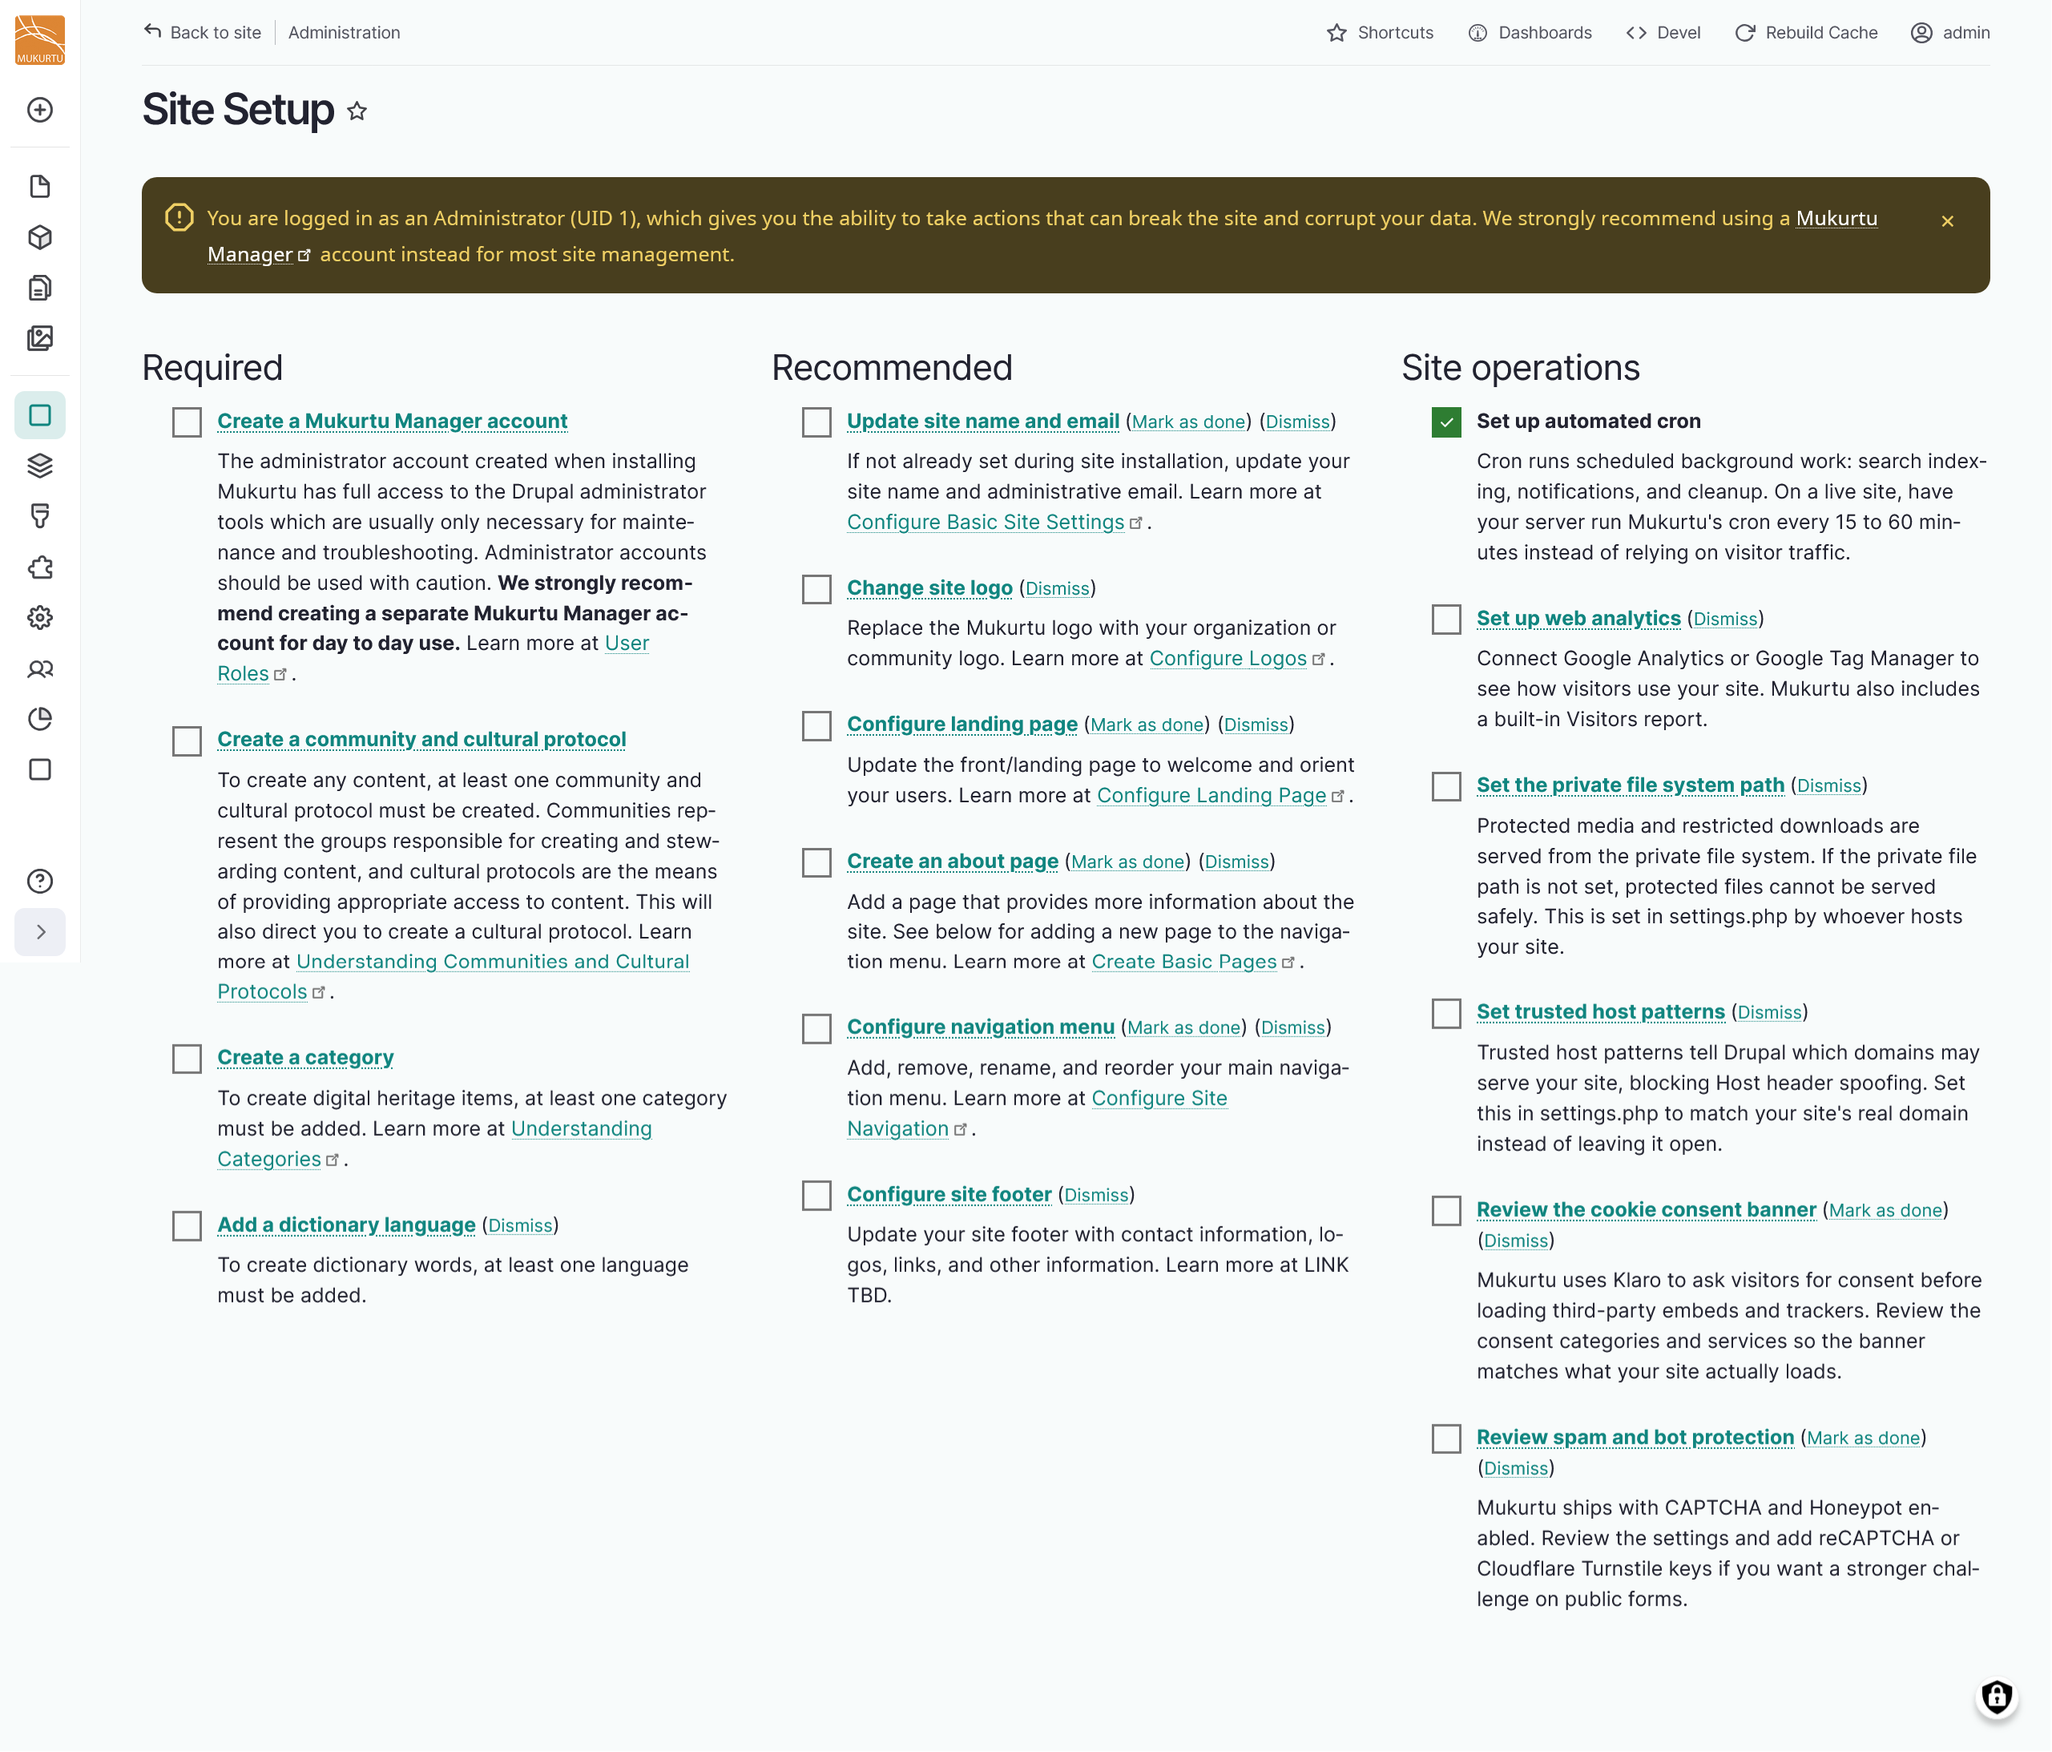
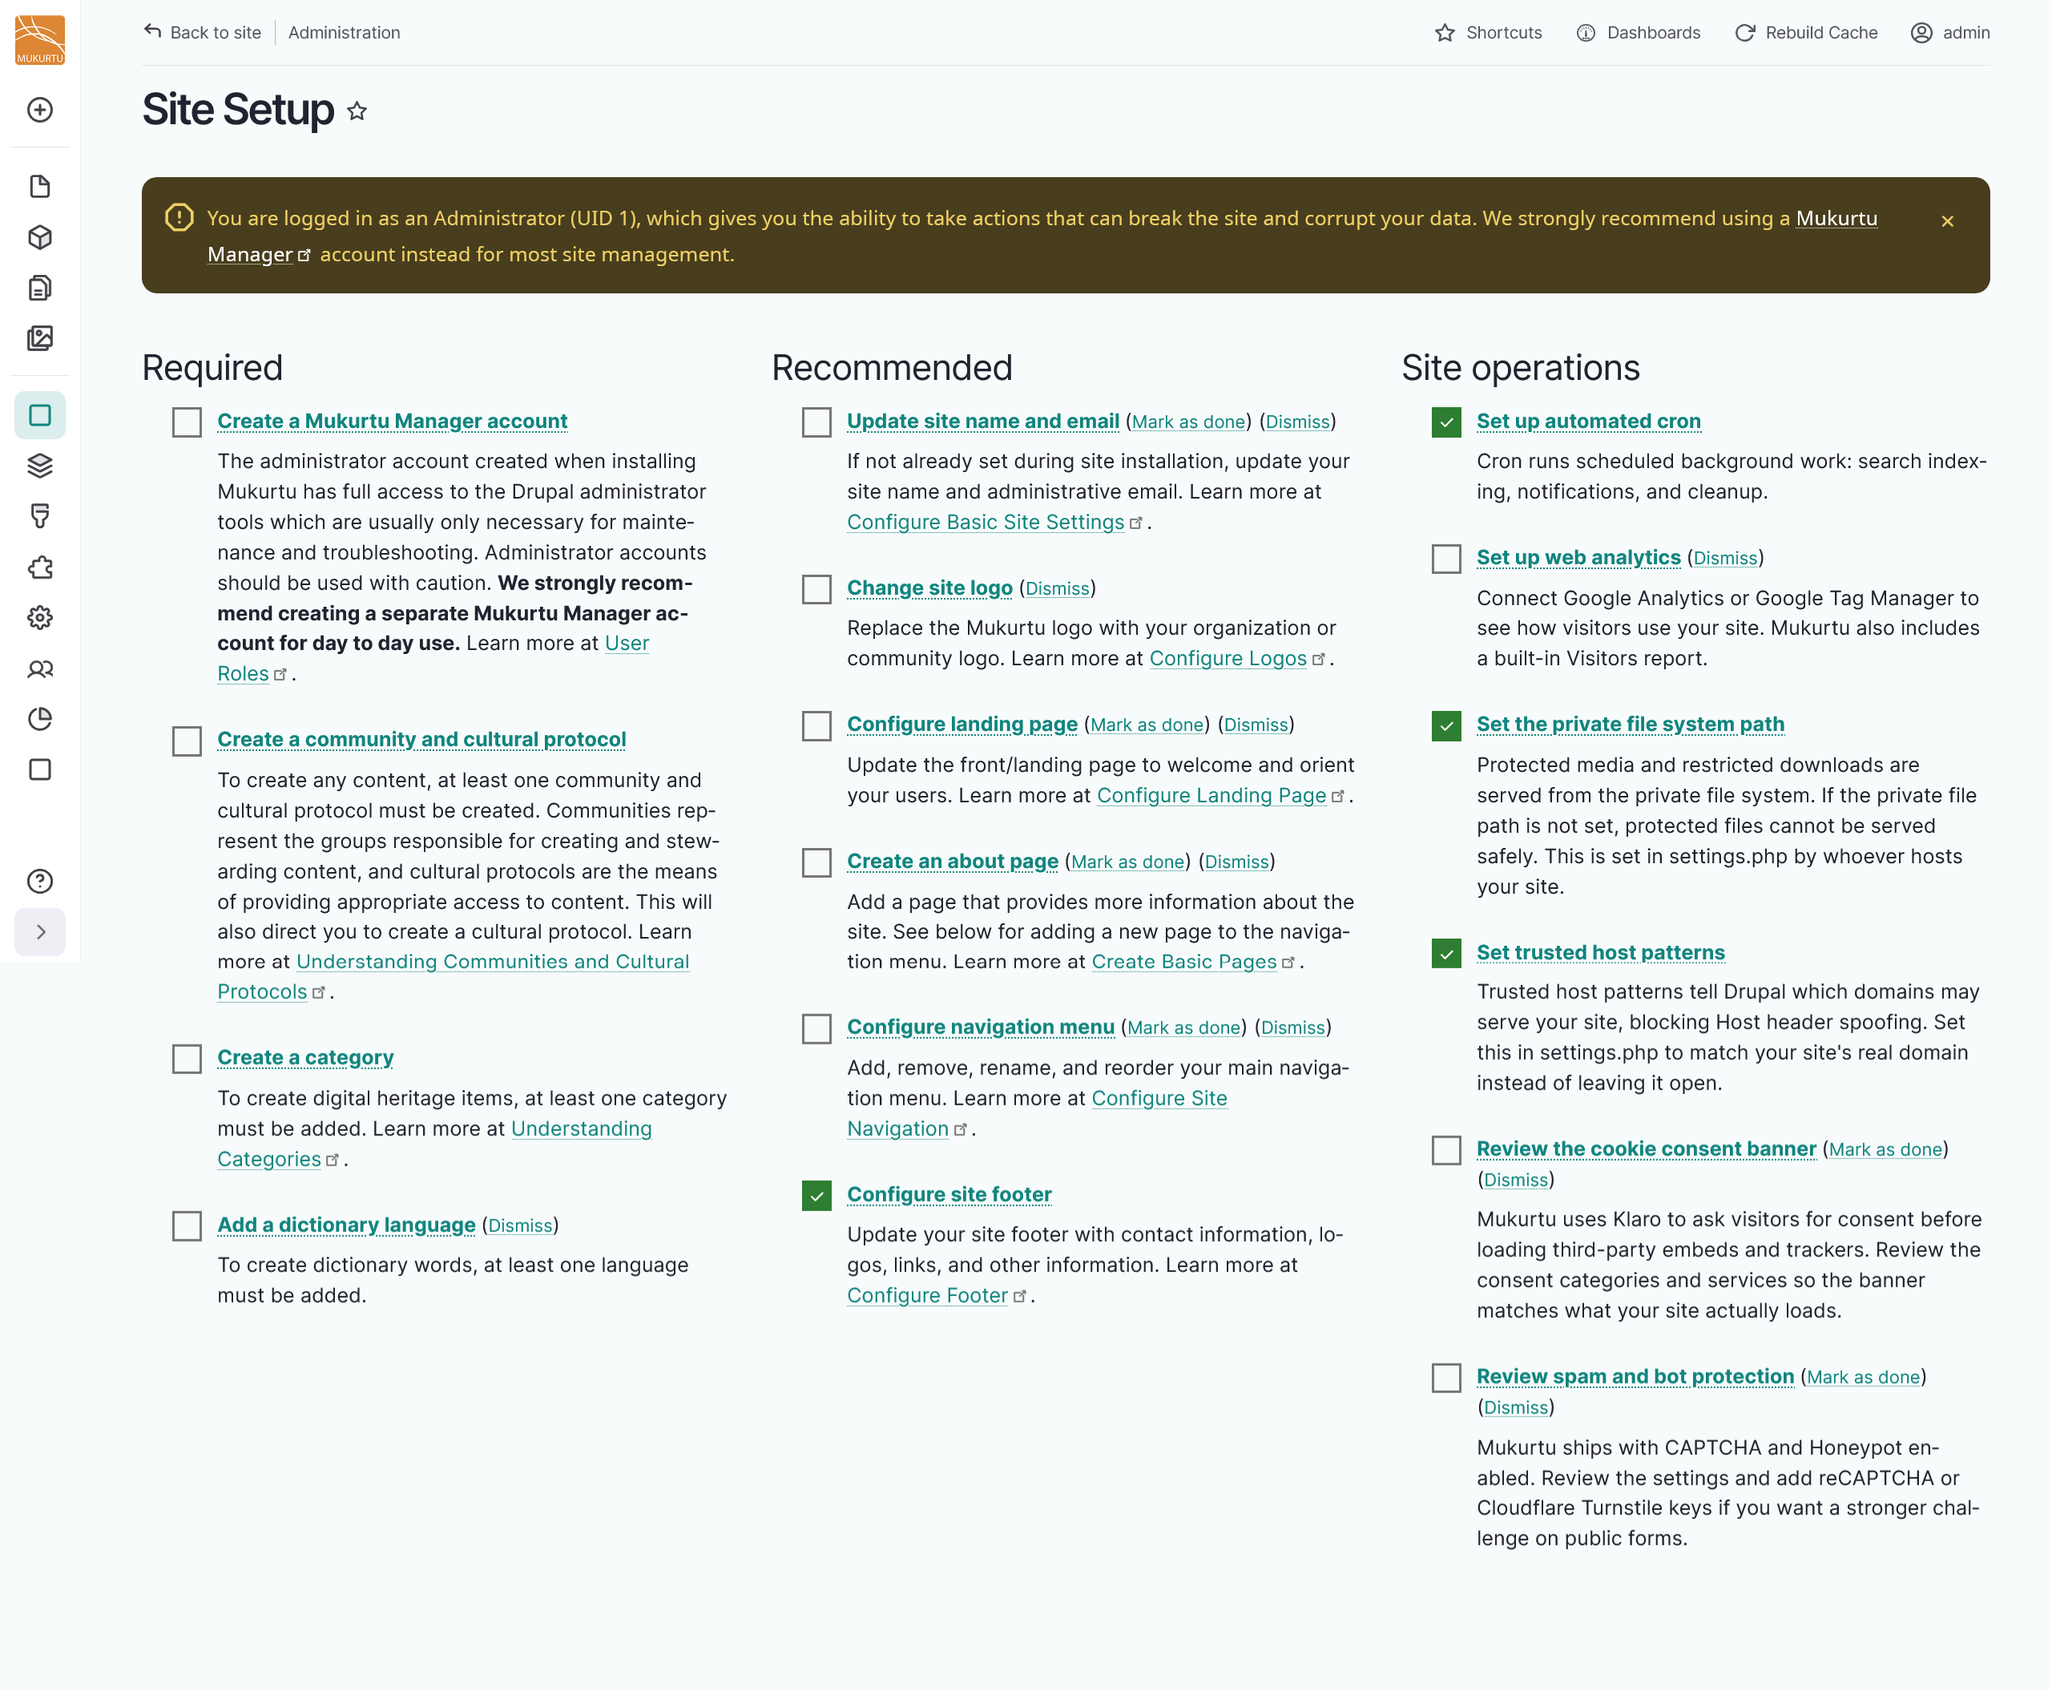
Site setup checklist
Site setup checklist article - may trim down the information about the Visitors module once that article is done.

diff --git a/docs/about-mukurtu/SiteSetupChecklist.md b/docs/about-mukurtu/SiteSetupChecklist.md
@@ -81,13 +81,13 @@ You can add contact information, logos, links, and other information to your sit
 
 ## Site operations
 
-The site operations column includes includes structural tasks, such as setting up a private file system path and reviewing spam and bot protection.
+The site operations column includes includes structural tasks, such as setting up a private file system path and reviewing spam and bot protection. Some of these settings are configured in your settings.php file by whomever hosts your site, so they should appear as checked off when your site is originally built. If they are not checked off, contact your hosting provider.
 
 Some tasks in the **Site operations** column will be checked off when they are complete. You can also select **Mark as done** or **Dismiss** to mark a task as complete or to dismiss a task if it does not apply to your site.
 
 ### Set up automated cron
 
-This is checked off when you build your site because cron is automatically set to run every hour. However, it is recommended on a live site for cron to run every 15-60 minutes. For more information on configuring cron refer to [Cron Configuration](../site-maintenance/CronConfiguration.md).
+This should be marked as done when you build your site because by default cron is automatically set to run every hour. For more information on configuring cron refer to [Cron Configuration](../site-maintenance/CronConfiguration.md).
 
 ### Set up web analytics
 
@@ -107,11 +107,11 @@ To view analytics provided by the Mukurtu Visitors module, navigate to your **Da
 
 ### Set the private file system path
 
-Protected media and restricted downloads are served from the private file system. If the private file path is not set, protected files cannot be served safely. This file path is set in settings.php by whoever hosts your site. 
+This should be marked as done when you build your site because it is configured in settings.php. Protected media and restricted downloads are served from the private file system. If the private file path is not set, protected files cannot be served safely. This file path is set in settings.php by whoever hosts your site. 
 
 ### Set trusted host patterns
 
-Trusted host patterns tell Drupal which domains may serve your site, blocking Host header spoofing. Set this in settings.php to match your site's real domain instead of leaving it open.
+This should be marked as done when you build your site because it is configured in settings.php. Trusted host patterns tell Drupal which domains may serve your site, blocking Host header spoofing. Set this in settings.php to match your site's real domain instead of leaving it open.
 
 ### Review cookie consent banner
 
@@ -120,3 +120,7 @@ Mukurtu uses Klaro to ask visitors for consent before loading third-party embeds
 ### Review spam and bot protection
 
 Mukurtu ships with CAPTCHA and Honeypot enabled. Review the settings and add reCAPTCHA or Cloudflare Turnstile keys if you want a stronger challenge on public forms.
+
+## Completing the checklist
+
+When all of the tasks on your site setup checklist are marked as complete or dismissed, this link and section on the Dashboard will disappear. 
